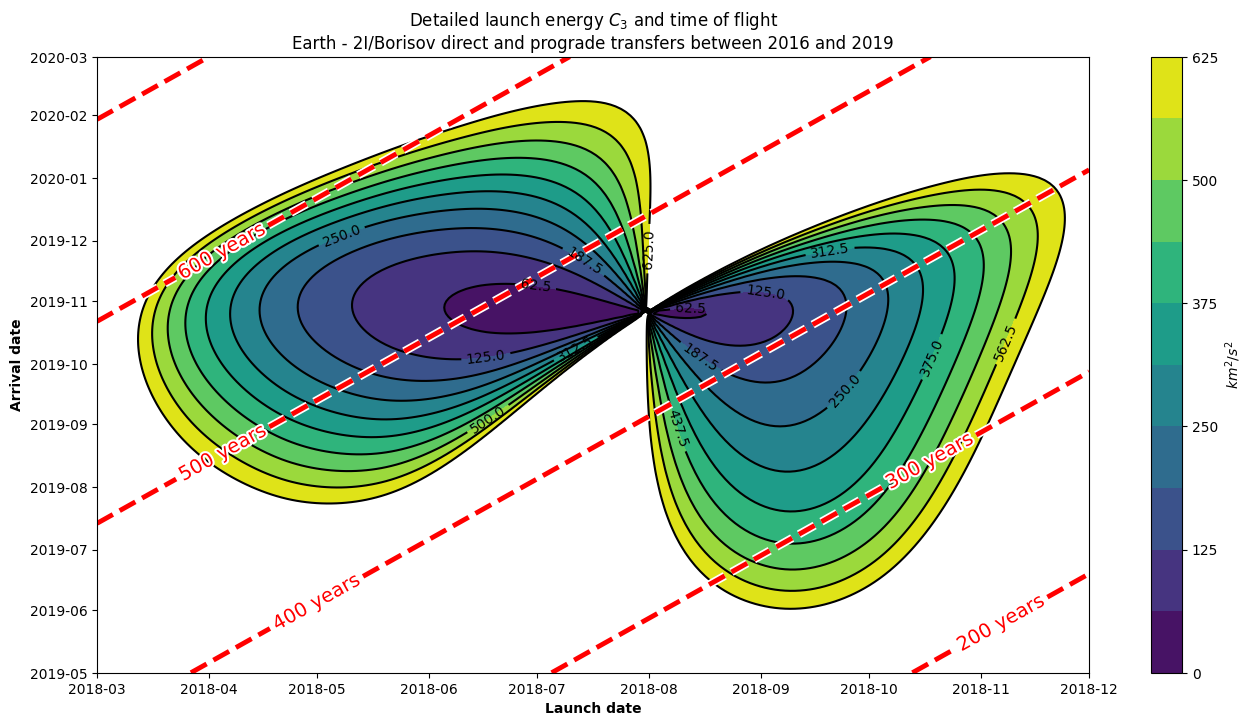
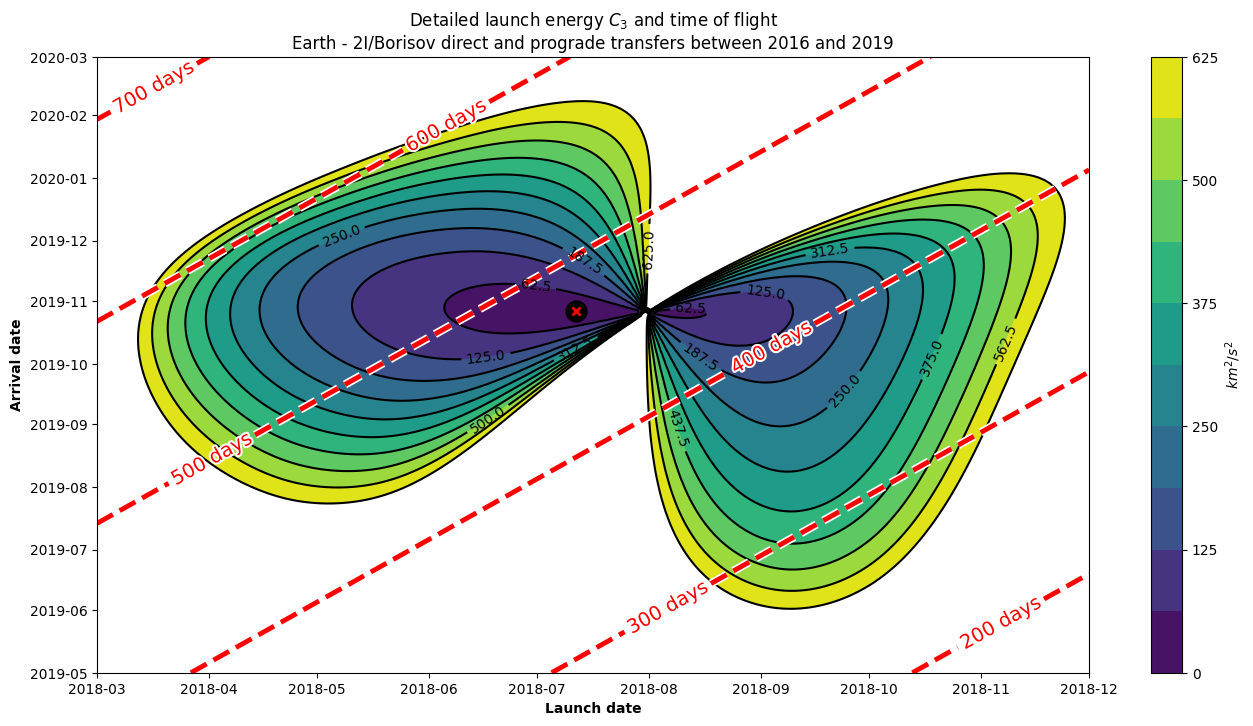
feat: complete optimum borisov

diff --git a/src/03_direct/optimum_transfer.tex b/src/03_direct/optimum_transfer.tex
@@ -34,7 +34,7 @@ in table \ref{tab:oumuamua-direct-transfer-optimum}.
   \includegraphics[width=\textwidth]{static/oumuamua/direct-detailed-porkchop-tof.png}
         \caption[Detailed porkchop showing the optimum transfer for
         1I/'Oumuamua with the time of flight.]{Detailed porkchop showing the optimum transfer for
-        1I/'Oumuamua. A region under 100 km$^2$/s$^2$ is found, indicating that
+        1I/'Oumuamua. A region under 50 km$^2$/s$^2$ is found, indicating that
         a low energy transfer is possible. The porkchop is limited up to $25$
         km/s, which is a feasible value for nowadays technology.}
   \label{fig:oumuamua-optimum-porkchop}
@@ -123,78 +123,95 @@ the impulses required for the maneuver, which are collected in table
 \end{table}
 
 The total time of flight is 265 days. The cost for the launch is around $2.96$
-km/s, while the arrival impulse is $66.45$ km/s. The total cost for the transfer
+km/s, while the arrival impulse is $62.45$ km/s. The total cost for the transfer
 is $65.41$ km/s.
 
 \subsection{Borisov}
 
 Regarding Borisov, the most optimum transfer is also a prograde transfer. The
-analysis of figure \ref{fig:borisov-direct-prograde-transfer-porkchop} shows
-that the lowest characteristic energy is the one collected in table
-\ref{tab:borisov-direct-transfer-optimum}.
+analysis of figure \ref{fig:borisov-direct-prograde-transfer-porkchop} reveals a
+series of periodic regions in the lower left region. The region containing the
+lowest characteristic energy is shown in figure
+\ref{fig:borisov-optimum-transfer-porkchop-tof}. The analysis is expanded again
+to the arrival velocity, which is shown in figure
+\ref{fig:borisov-optimum-transfer-porkchop-avl}.
 
-Previously found literature shows that \cite{hibberd2021} analyzed the direct
-transfer to the interloper, where he states that the optimum transfer happens 
+The values associated with the point with the lowest characteristic energy for
+2I/Borisov are collected in table \ref{tab:borisov-direct-transfer-optimum}.
 
-Impulses for this maneuver are described in table
-\ref{tab:borisov-direct-transfer-impulses}. Total cost is $36.95$ km/s.
-
-\begin{table}[H]
-  \centering
-  \begin{tabular}{|c|c|c|c|}
-    \hline
-    Impulse & $\Delta v_x$ [km/s] & $\Delta v_y$ [km/s] & $\Delta v_z$ [km/s] \\
-    \hline
-    Launch & -11.92 & 3.69 & -25.73 \\
-    \hline
-    Arrival & 0.58 & -5.37 & -6.37 \\
-    \hline
-  \end{tabular}
-  \caption{Impulses required for the optimum transfer between Earth and 2I/Borisov.}
-  \label{tab:borisov-direct-transfer-impulses}
-\end{table}
-
-
-\vspace{1cm}
 \begin{table}[H]
   \centering
   \begin{tabular}{|c|c|c|c|}
     \hline
     Object & Launch date & Arrival date & Required $C_3$ [km$^2$/s$^2$] \\
     \hline
-    2I/Borisov & 2016-04-28 & 2032-01-15 & 820.06 \\
+    2I/Borisov & 2018-07-11 & 2019-10-27 & 32.14 \\
     \hline
   \end{tabular}
   \caption{Optimum transfer orbit for a direct transfer between the Earth and 2I/Borisov.}
   \label{tab:borisov-direct-transfer-optimum}
 \end{table}
 
-Figure \ref{fig:borisov-direct-transfer-orbit} shows the trajectory of the
-optimum transfer between Earth and 2I/Borisov.
-
 \begin{figure}[H]
   \centering
   \includegraphics[width=\textwidth]{static/borisov/direct-detailed-porkchop-tof.png}
-  \caption{Optimum direct transfer orbit between Earth and 2I/Borisov. This
-        trajectory does not pass close to the Sun. However, the transfer requires almost $820$
-        km$^2$/s$^2$ to achieve a targeting with the interloper.}
-  \label{fig:borisov-direct-transfer-orbit}
+        \caption[Detailed porkchop showing the optimum transfer for
+        2I/Borisov with the time of flight.]{Detailed porkchop showing the
+        optmum transfer for 2I/Borisov with isolines for the time of flight. A
+        region below 50 km$^2$/s$^2$ is found, similarly to the case of
+        'Oumuamua.}
+  \label{fig:borisov-optimum-transfer-porkchop-tof}
 \end{figure}
 
 \begin{figure}[H]
   \centering
   \includegraphics[width=\textwidth]{static/borisov/direct-detailed-porkchop-avl.png}
-  \caption{Optimum direct transfer orbit between Earth and 2I/Borisov. This
-        trajectory does not pass close to the Sun. However, the transfer requires almost $820$
-        km$^2$/s$^2$ to achieve a targeting with the interloper.}
-  \label{fig:borisov-direct-transfer-orbit}
+        \caption[Detailed porkchop showing the optimum trasnfer for 2I/Borisov
+        with the arrival velocity]{Detailed porkchop showing the optimum transfer for
+        2I/Borisov with isolines for the arrival velocity. Despite having found
+        an optimum transfer, the arrival velocity is very high.}
+  \label{fig:borisov-optimum-transfer-porkchop-avl}
+\end{figure}
+
+The total time of flight is 473 days. The total cost for the launch is around
+$5.65$ km/s and the arrival impulse is $32.95$ km/s. The total cost for the
+maneuver is $38.61$ km/s.
+
+Figures \ref{fig:optimum_borisov_orbit_xy}, \ref{fig:optimum_borisov_orbit_yz},
+and \ref{fig:optimum_borisov_orbit_xz} represent the trajectory of the optimum
+transfer from Earth to 2I/Borisov. Again, the transfer does not present a high
+inclination, which allows the spacecraft to benefit from Earth's velocity.
+
+\begin{figure}[H]
+  \centering
+  \includegraphics[width=0.95\textwidth]{static/borisov/direct-optimum-transfer-xy.png}
+  \caption[Top view of the direct optimum transfer orbit from Earth to
+        2I/Borisov]{
+    Top view of the direct optimum transfer orbit from Earth to 2I/Borisov.
+    The orbit lies close to the ecliptic, taking advantage of the Earth's
+    velocity to intercept the interloper.
+  }
+  \label{fig:optimum_borisov_orbit_xy}
 \end{figure}
 
 \begin{figure}[H]
   \centering
-  \includegraphics[width=\textwidth]{static/borisov/direct-detailed-porkchop.png}
-        \caption[Detailed porkchop showing the optimum transfer for
-        2I/Borisov]{The porkchop reveals a series of optimum transfer orbits.
-        These values remain suitable for modern chemical propulsion media.}
-  \label{fig:borisov-direct-detailed-porkchop}
+  \includegraphics[width=0.95\textwidth]{static/borisov/direct-optimum-transfer-xz.png}
+  \caption[Front view of the direct optimum transfer orbit from Earth to 2I/Borisov]{
+    Front view of the direct optimum transfer orbit from Earth to 2I/Borisov.
+    The inclination of the orbit is very low, maximizing the kinetic energy
+    provided by the Earth.
+  }
+  \label{fig:optimum_borisov_orbit_yz}
 \end{figure}
+
+\begin{figure}[H]
+  \centering
+  \includegraphics[width=0.95\textwidth]{static/borisov/direct-optimum-transfer-yz.png}
+  \caption[Side view of the direct optimum transfer orbit from Earth to 2I/Borisov]{
+    Side view of the direct optimum transfer orbit from Earth to 2I/Borisov.
+    This view shows again the low inclination of the transfer orbit.}
+  \label{fig:optimum_borisov_orbit_xz}
+\end{figure}
+
+

diff --git a/bin/borisov_direct_transfer_opt.py b/bin/borisov_direct_transfer_opt.py
@@ -1,43 +1,61 @@
 from astropy import units as u
 from astropy.time import Time
-from poliastro.bodies import Sun, Earth
-from poliastro.ephem import Ephem
-from poliastro.twobody import Orbit
+import matplotlib.pyplot as plt
+
 from poliastro.frames import Planes
-from poliastro.plotting.misc import plot_solar_system
+from poliastro.bodies import Sun
+from poliastro.twobody import Orbit
 from poliastro.twobody.sampling import EpochsArray
-from poliastro.util import time_range
 from poliastro.maneuver import Maneuver
-from matplotlib import pyplot as plt
+from poliastro.ephem import Ephem
+from poliastro.plotting.misc import plot_solar_system
+from poliastro.util import time_range
 
 
-# Compute ephemeris
-epochs = time_range("2016-02-29", end="2032-01-01", scale="tdb")
-earth_ephem = Ephem.from_body(Earth, epochs={'start': '2016-02-29', 'end': '2032-01-01', 'step': '1d'})
-borisov_ephem = Ephem.from_body("C/2019 Q4", epochs={'start': '2016-02-29', 'end': '2032-01-01', 'step': '1d'})
+# Build the ephemerides
+earth_ephem = Ephem.from_csv("bin/ephem/earth.csv", plane=Planes.EARTH_ECLIPTIC)
+borisov_ephem = Ephem.from_csv("bin/ephem/borisov.csv", plane=Planes.EARTH_ECLIPTIC)
 
-# Declare launch and arrival dates
-launch_date = Time("2016-02-29", scale="tdb")
-arrival_date = Time("2032-01-01", scale="tdb")
+# Define the desired times
+at_launch = Time("2018-07-11", scale="tdb")
+at_arrival = Time("2019-10-27", scale="tdb")
+epochs = time_range(at_launch, end=at_arrival, num_values=1000, scale="tdb")
 
-# Compute Earth and 2I/Borisov orbits at launch and arrival
-earth_at_launch = Orbit.from_ephem(Sun, earth_ephem, epoch=launch_date)
-earth_at_arrival = Orbit.from_ephem(Sun, earth_ephem, epoch=arrival_date)
-borisov_at_launch = Orbit.from_ephem(Sun, borisov_ephem, epoch=launch_date)
-borisov_at_arrival = Orbit.from_ephem(Sun, borisov_ephem, epoch=arrival_date)
+# Build associated orbits
+earth = Orbit.from_ephem(Sun, earth_ephem, epoch=at_launch)
+borisov = Orbit.from_ephem(Sun, borisov_ephem, epoch=at_arrival)
 
-# Compute the transfer orbit
-maneuver = Maneuver.lambert(earth_at_launch, borisov_at_arrival)
-for ith_impulse, (_ , impulse) in enumerate(maneuver.impulses):
-    print(f"Impulse {ith_impulse}: {[val.to(u.km / u.s) for val in impulse]}")
-print(f"Total cost: {maneuver.get_total_cost().to(u.km / u.s)}")
-transfer_orbit, _ = earth_at_launch.apply_maneuver(maneuver, intermediate=True)
+# Compute the transfer maneuver
+lambert = Maneuver.lambert(earth, borisov)
+print(f"Total cost: {lambert.get_total_cost()}")
+print(f"Total time: {lambert.get_total_time().to(u.day)}")
+for _, dv in lambert.impulses:
+    print(f"Impulses: {dv.to(u.km / u.s)}")
+    print(f"Cost: {(sum(impulse ** 2 for impulse in dv) ** 0.5).to(u.km/u.s)}")
+transfer, _ = earth.apply_maneuver(lambert, intermediate=True)
 
-plotter = plot_solar_system(epoch=launch_date, outer=True, plane=Planes.EARTH_EQUATOR, length_scale_units=u.AU)
-plotter.plot_ephem(transfer_orbit.to_ephem(strategy=EpochsArray(epochs)),
-                   label="Transfer orbit", color="red")
-plotter.plot_ephem(borisov_ephem, epoch=arrival_date, label="2I/Borisov at arrival", color="black")
-plotter.backend.ax.set_xlim(-52, 15)
-plotter.backend.ax.set_ylim(-32, 32)
-plt.savefig("fig/static/borisov/direct-optimum-transfer.png", bbox_inches="tight")
-plt.show()
+# Model the transfer orbit as an ephem
+transfer_ephem = transfer.to_ephem(strategy=EpochsArray(epochs))
+
+view_and_limits = {
+    "xy": [[-3, 3], [-3, 3]],
+    "xz": [[-0.2, 3], [-0.2, 1]],
+    "yz": [[-0.2, 3], [-0.2, 1]],
+}
+
+for view, (xlim, ylim) in view_and_limits.items():
+    plotter = plot_solar_system(epoch=at_launch, outer=False,
+                                length_scale_units=u.AU,
+                                plane=Planes.EARTH_ECLIPTIC, view=view)
+    plotter.plot_ephem(transfer_ephem, label="Transfer orbit", color="red")
+    oumuamua_lines, _ = plotter.plot_coordinates(borisov_ephem.sample(epochs),
+                                                 position=borisov_ephem.rv(at_arrival)[0],
+                                                 label="2I/Borisov at arrival", color="black")
+    oumuamua_lines.set_linestyle("--")
+
+    plotter.backend.ax.set_xlim(xlim)
+    plotter.backend.ax.set_ylim(ylim)
+    if view != "xy":
+        plotter.backend.ax.legend().remove()
+
+    plt.savefig(f"fig/static/borisov/direct-optimum-transfer-{view}.png", bbox_inches="tight")

diff --git a/bin/borisov_porkchop_optimum.py b/bin/borisov_porkchop_optimum.py
@@ -27,6 +27,10 @@ def main():
     # Compute the porkchop plot
     porkchop = solve_porkchop(prograde=True)
 
+    print(f"Minimum energy: {porkchop.c3_launch_min:.2f}")
+    print(f"Launch date: {porkchop.launch_date_at_c3_launch_min}")
+    print(f"Arrivla date: {porkchop.arrival_date_at_c3_launch_min}")
+
     # Get launch energy and time of flight
     _, ax = plt.subplots(1, 1, figsize=(16, 8))
     porkchop.plot_launch_energy(
@@ -39,6 +43,16 @@ def main():
         ax=ax
     )
     porkchop.ax.set_title(f"Detailed launch energy $C_3$ and time of flight\nEarth - 2I/Borisov direct and prograde transfers between 2016 and 2019")
+    porkchop.ax.plot(
+            porkchop.launch_date_at_c3_launch_min.to_datetime(),
+            porkchop.arrival_date_at_c3_launch_min.to_datetime(),
+            "ko", markersize=15
+    )
+    porkchop.ax.plot(
+            porkchop.launch_date_at_c3_launch_min.to_datetime(),
+            porkchop.arrival_date_at_c3_launch_min.to_datetime(),
+            color="red", marker="x", mew=2, label="Lowest energy transfer"
+    )
     plt.savefig(f"fig/static/borisov/direct-detailed-porkchop-tof.png", bbox_inches="tight")
 
     # Get launch energy and arrival velocity
@@ -53,6 +67,16 @@ def main():
         ax=ax
     )
     porkchop.ax.set_title(f"Detailed launch energy $C_3$ and arrival velocity\nEarth - 2I/Borisov direct and prograde transfers between 2016 and 2032")
+    porkchop.ax.plot(
+            porkchop.launch_date_at_c3_launch_min.to_datetime(),
+            porkchop.arrival_date_at_c3_launch_min.to_datetime(),
+            "ko", markersize=15
+    )
+    porkchop.ax.plot(
+            porkchop.launch_date_at_c3_launch_min.to_datetime(),
+            porkchop.arrival_date_at_c3_launch_min.to_datetime(),
+            color="red", marker="x", mew=2, label="Lowest energy transfer"
+    )
     plt.savefig(f"fig/static/borisov/direct-detailed-porkchop-avl.png", bbox_inches="tight")
 
 
